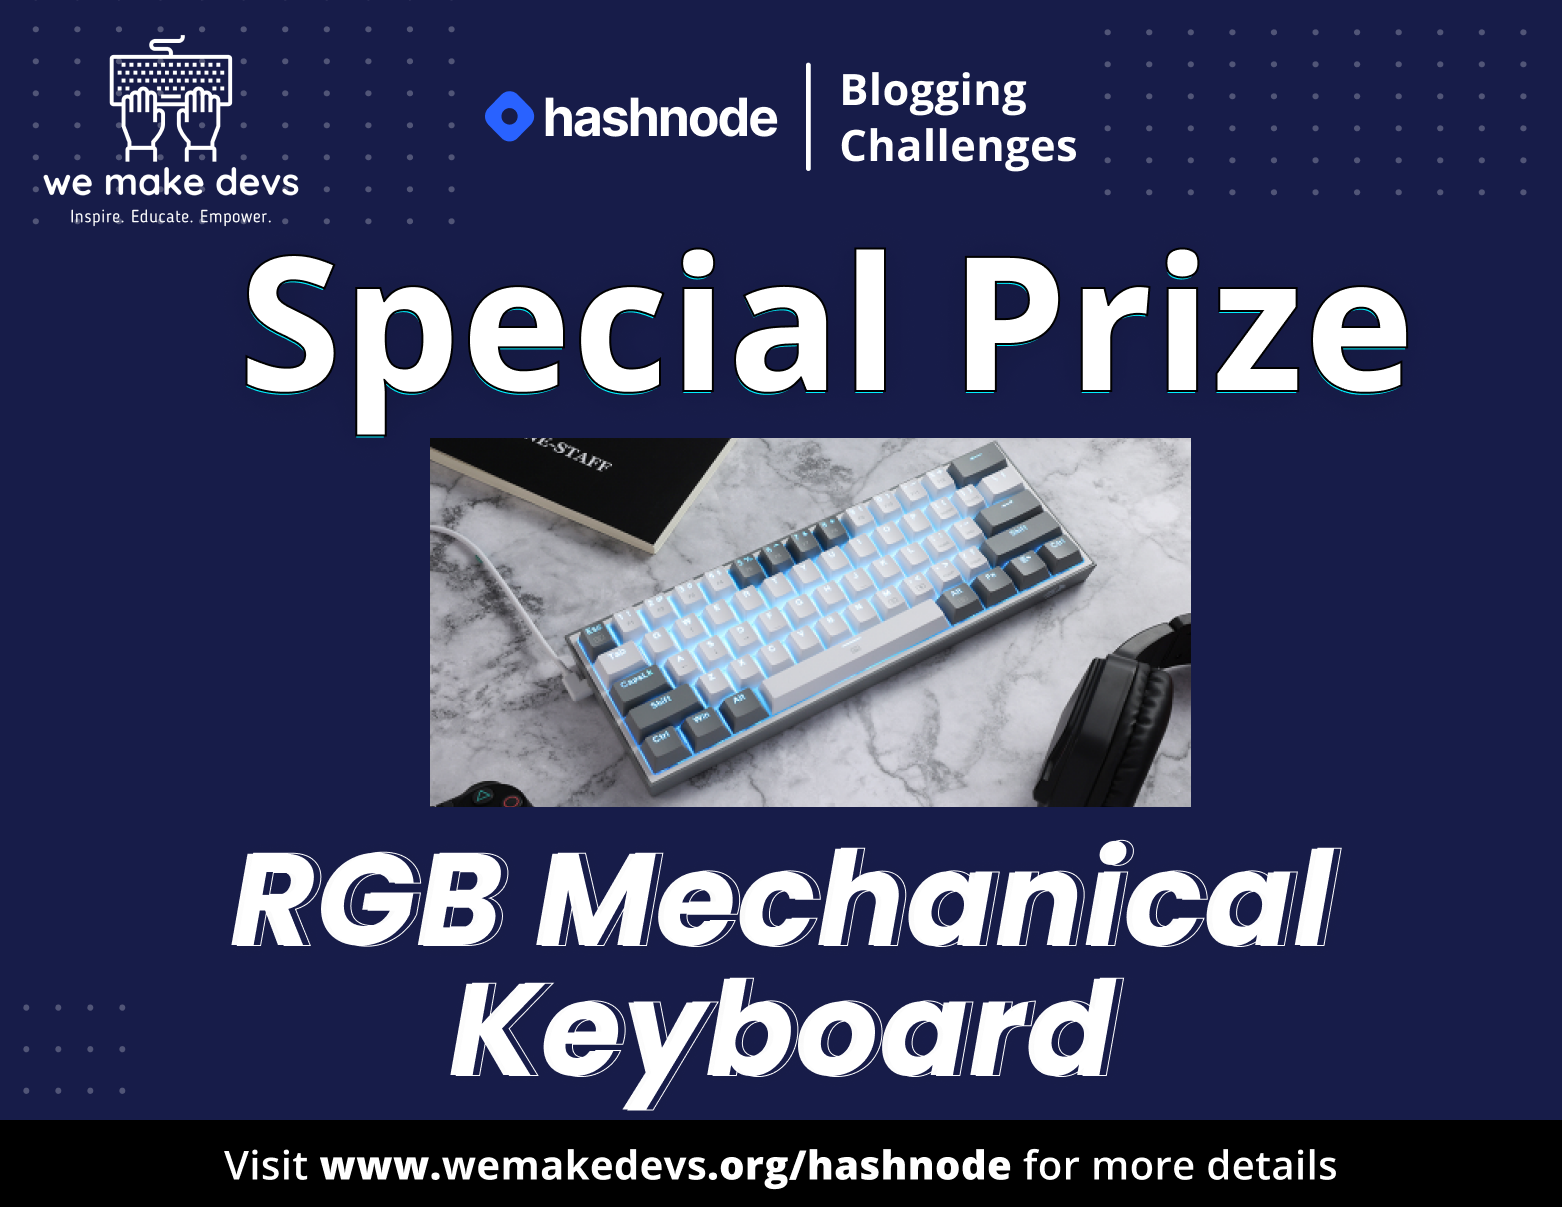
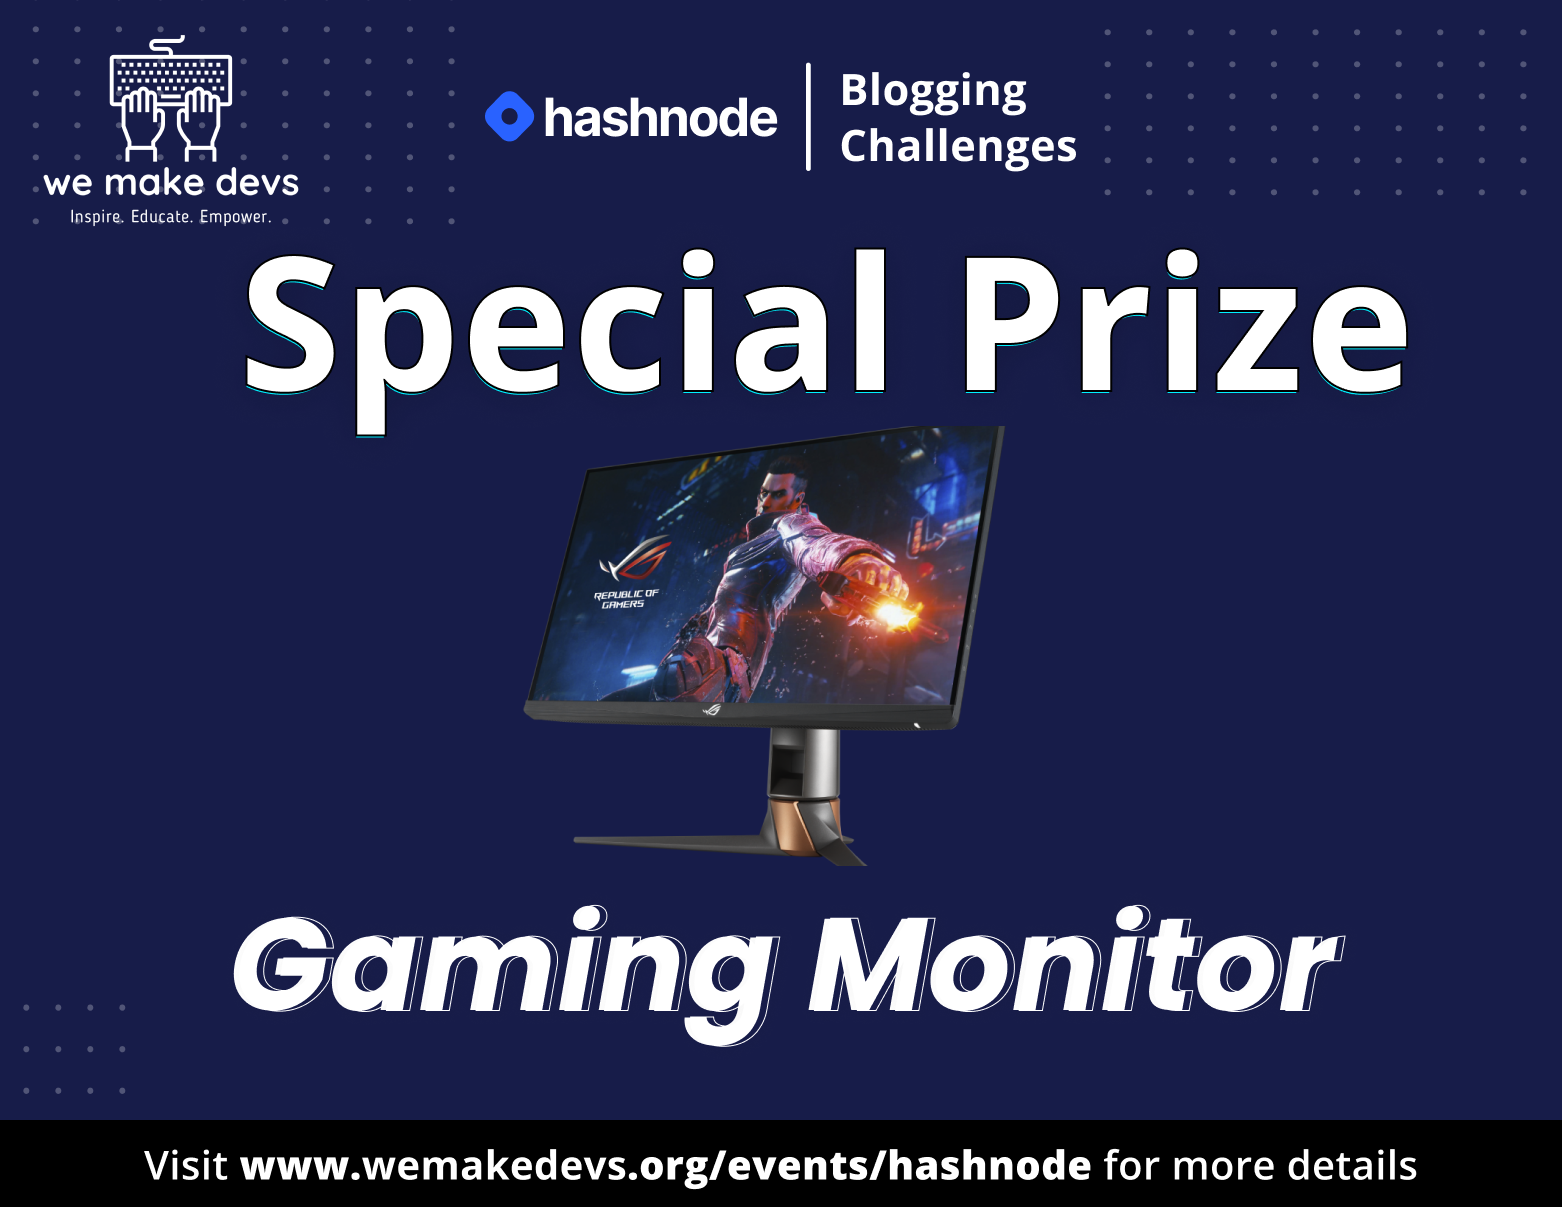
feb-2023 track update on hashnode page (#392)
* feb-2022 track update on hashnode page

* style: equal spacing

Changed region(s): [[0.1229, 0.3372, 0.8604, 0.9196], [0.0922, 0.9503, 0.9219, 0.9809]]

diff --git a/src/components/hashnode/tracks/data.js b/src/components/hashnode/tracks/data.js
@@ -7,17 +7,17 @@ import Track4 from '../../../assets/hashnode/Track-4.png';
 export const hashnodeData = [
   {
     description:
-      'Write a blog on the topic Development, share some good projects, tips and stand a chance to win prize.',
+      'Write a blog on the topic DevOps, share some projects, tips and stand a chance to win prize.',
     image: Track1,
   },
   {
     description:
-      'Write a blog on the topic Productivity, share some good tips and your experience  and definitely stand a chance to win the prize.',
+      'Write a blog on the topic machine Learning, share some good tips and your experience and definitely stand a chance to win the prize.',
     image: Track2,
   },
   {
     description:
-      'Write a blog on the topic IoT and stand a chance to win the prize.',
+      'Write a blog on the topic Problem Solving and stand a chance to win the prize.',
     image: Track3,
   },
   {
@@ -27,7 +27,7 @@ export const hashnodeData = [
   },
   {
     description:
-      'Write a blog on the special topic 2022 wrap up , share what you have learned and achived this year and stand a chance to win the grand prize.',
+      "Write a blog about the best communities you're a part of and your experiences with them. What do you enjoy about them? How did they help you grow? and you can win a gaming monitor!",
     image: Special,
   },
 ];

diff --git a/src/components/hashnode/Annoucment/index.jsx b/src/components/hashnode/Annoucment/index.jsx
@@ -1,0 +1,27 @@
+import clsx from 'clsx';
+
+import styles from './index.module.css';
+
+const Annoucnment = ({ background }) => {
+  return (
+    <section
+      className={clsx(background === 'gradient' ? 'gradient' : 'static-bg')}
+    >
+      <div className={clsx('layout', styles.layout)}>
+        <h3 className='heading'>
+          INR 💵
+          <br /> 25000
+        </h3>
+        <h2 className='h2'>
+          Write blogs for 4 months in a row to enter a raffle for INR 25,000. 25
+          such folks will also receive a private 1:1 mentorship with Kunal
+          Kushwaha
+        </h2>
+        <div className={clsx(styles.dots, styles.left)}></div>
+        <div className={clsx(styles.dots, styles.right)}></div>
+      </div>
+    </section>
+  );
+};
+
+export default Annoucnment;

diff --git a/src/components/hashnode/Annoucment/index.module.css b/src/components/hashnode/Annoucment/index.module.css
@@ -1,0 +1,49 @@
+.section {
+  display: flex;
+  flex-direction: column;
+  position: relative;
+}
+
+.layout {
+  display: flex;
+  flex-direction: column;
+  gap: 1rem;
+  justify-content: center;
+  align-items: center;
+  padding-block: 6rem;
+}
+
+.layout h2 {
+  text-align: center;
+}
+
+.layout h3 {
+  text-align: center;
+  font-style: italic;
+  font-weight: bolder;
+}
+
+.dots {
+  background-image: radial-gradient(
+    rgb(var(--content), 0.5) 3px,
+    #00000000 3px
+  );
+  background-size: 28px 28px;
+  background-repeat: repeat;
+  width: 12rem;
+  aspect-ratio: 1/1;
+  z-index: 0;
+  position: absolute;
+}
+
+.dots.left {
+  left: 0;
+  top: 0;
+  transform: translateX(-50%);
+}
+
+.dots.right {
+  right: 0;
+  bottom: 0;
+  transform: translateX(50%);
+}

diff --git a/src/pages/Hashnode.jsx b/src/pages/Hashnode.jsx
@@ -1,5 +1,6 @@
 import { HashnodePageContent } from './content';
 import { Hero, HowTakePart, Offer, Prize, Track } from '../components/hashnode';
+import Annoucnment from '../components/hashnode/Annoucment';
 import { FAQ, Footer, JoinUs, Navbar, Partner } from '../components/layout';
 
 const HashnodePage = () => {
@@ -10,7 +11,8 @@ const HashnodePage = () => {
       <Offer />
       <Prize background='gradient' />
       <Track />
-      <HowTakePart background='gradient' />
+      <Annoucnment background='gradient' />
+      <HowTakePart />
       <JoinUs background='gradient' />
       <FAQ faq={HashnodePageContent.faq} />
       <Partner background='gradient' />

diff --git a/src/components/hashnode/HowTakePart/index.jsx b/src/components/hashnode/HowTakePart/index.jsx
@@ -35,7 +35,7 @@ const HowTakePart = ({ background = 'static' }) => {
       <section
         className='layout'
         style={{
-          paddingBlock: '6rem',
+          paddingBottom: '6rem',
           display: 'flex',
           justifyContent: 'center',
           alignItems: 'center',
@@ -79,8 +79,5 @@ const tweetId = [
   '1593969175651053568',
   '1594773169713205249',
   '1613238456729341953',
-  '1609515604033286144',
-  '1609581274985037824',
-  '1596162105971023872',
   '1616586072020111360',
 ];

diff --git a/src/components/layout/ColumnSection/index.module.css b/src/components/layout/ColumnSection/index.module.css
@@ -3,13 +3,7 @@
   justify-content: space-between;
   gap: 3rem;
   flex-direction: column;
-  padding-block: 5rem;
-}
-
-@media (min-width: 768px) {
-  .container {
-    padding-block: 10rem;
-  }
+  padding-block: 6rem;
 }
 
 @media (min-width: 1024px) {

diff --git a/src/components/eventspage/tracks/index.module.css b/src/components/eventspage/tracks/index.module.css
@@ -1,5 +1,5 @@
 .layout {
-  padding-block: 5rem;
+  padding-block: 6rem;
 }
 .hr {
   margin-block: 1.5rem;

diff --git a/src/components/hashnode/tracks/index.module.css b/src/components/hashnode/tracks/index.module.css
@@ -1,5 +1,5 @@
 .layout {
-  padding-block: 5rem;
+  padding-block: 6rem;
 }
 .hr {
   margin-block: 1.5rem;
